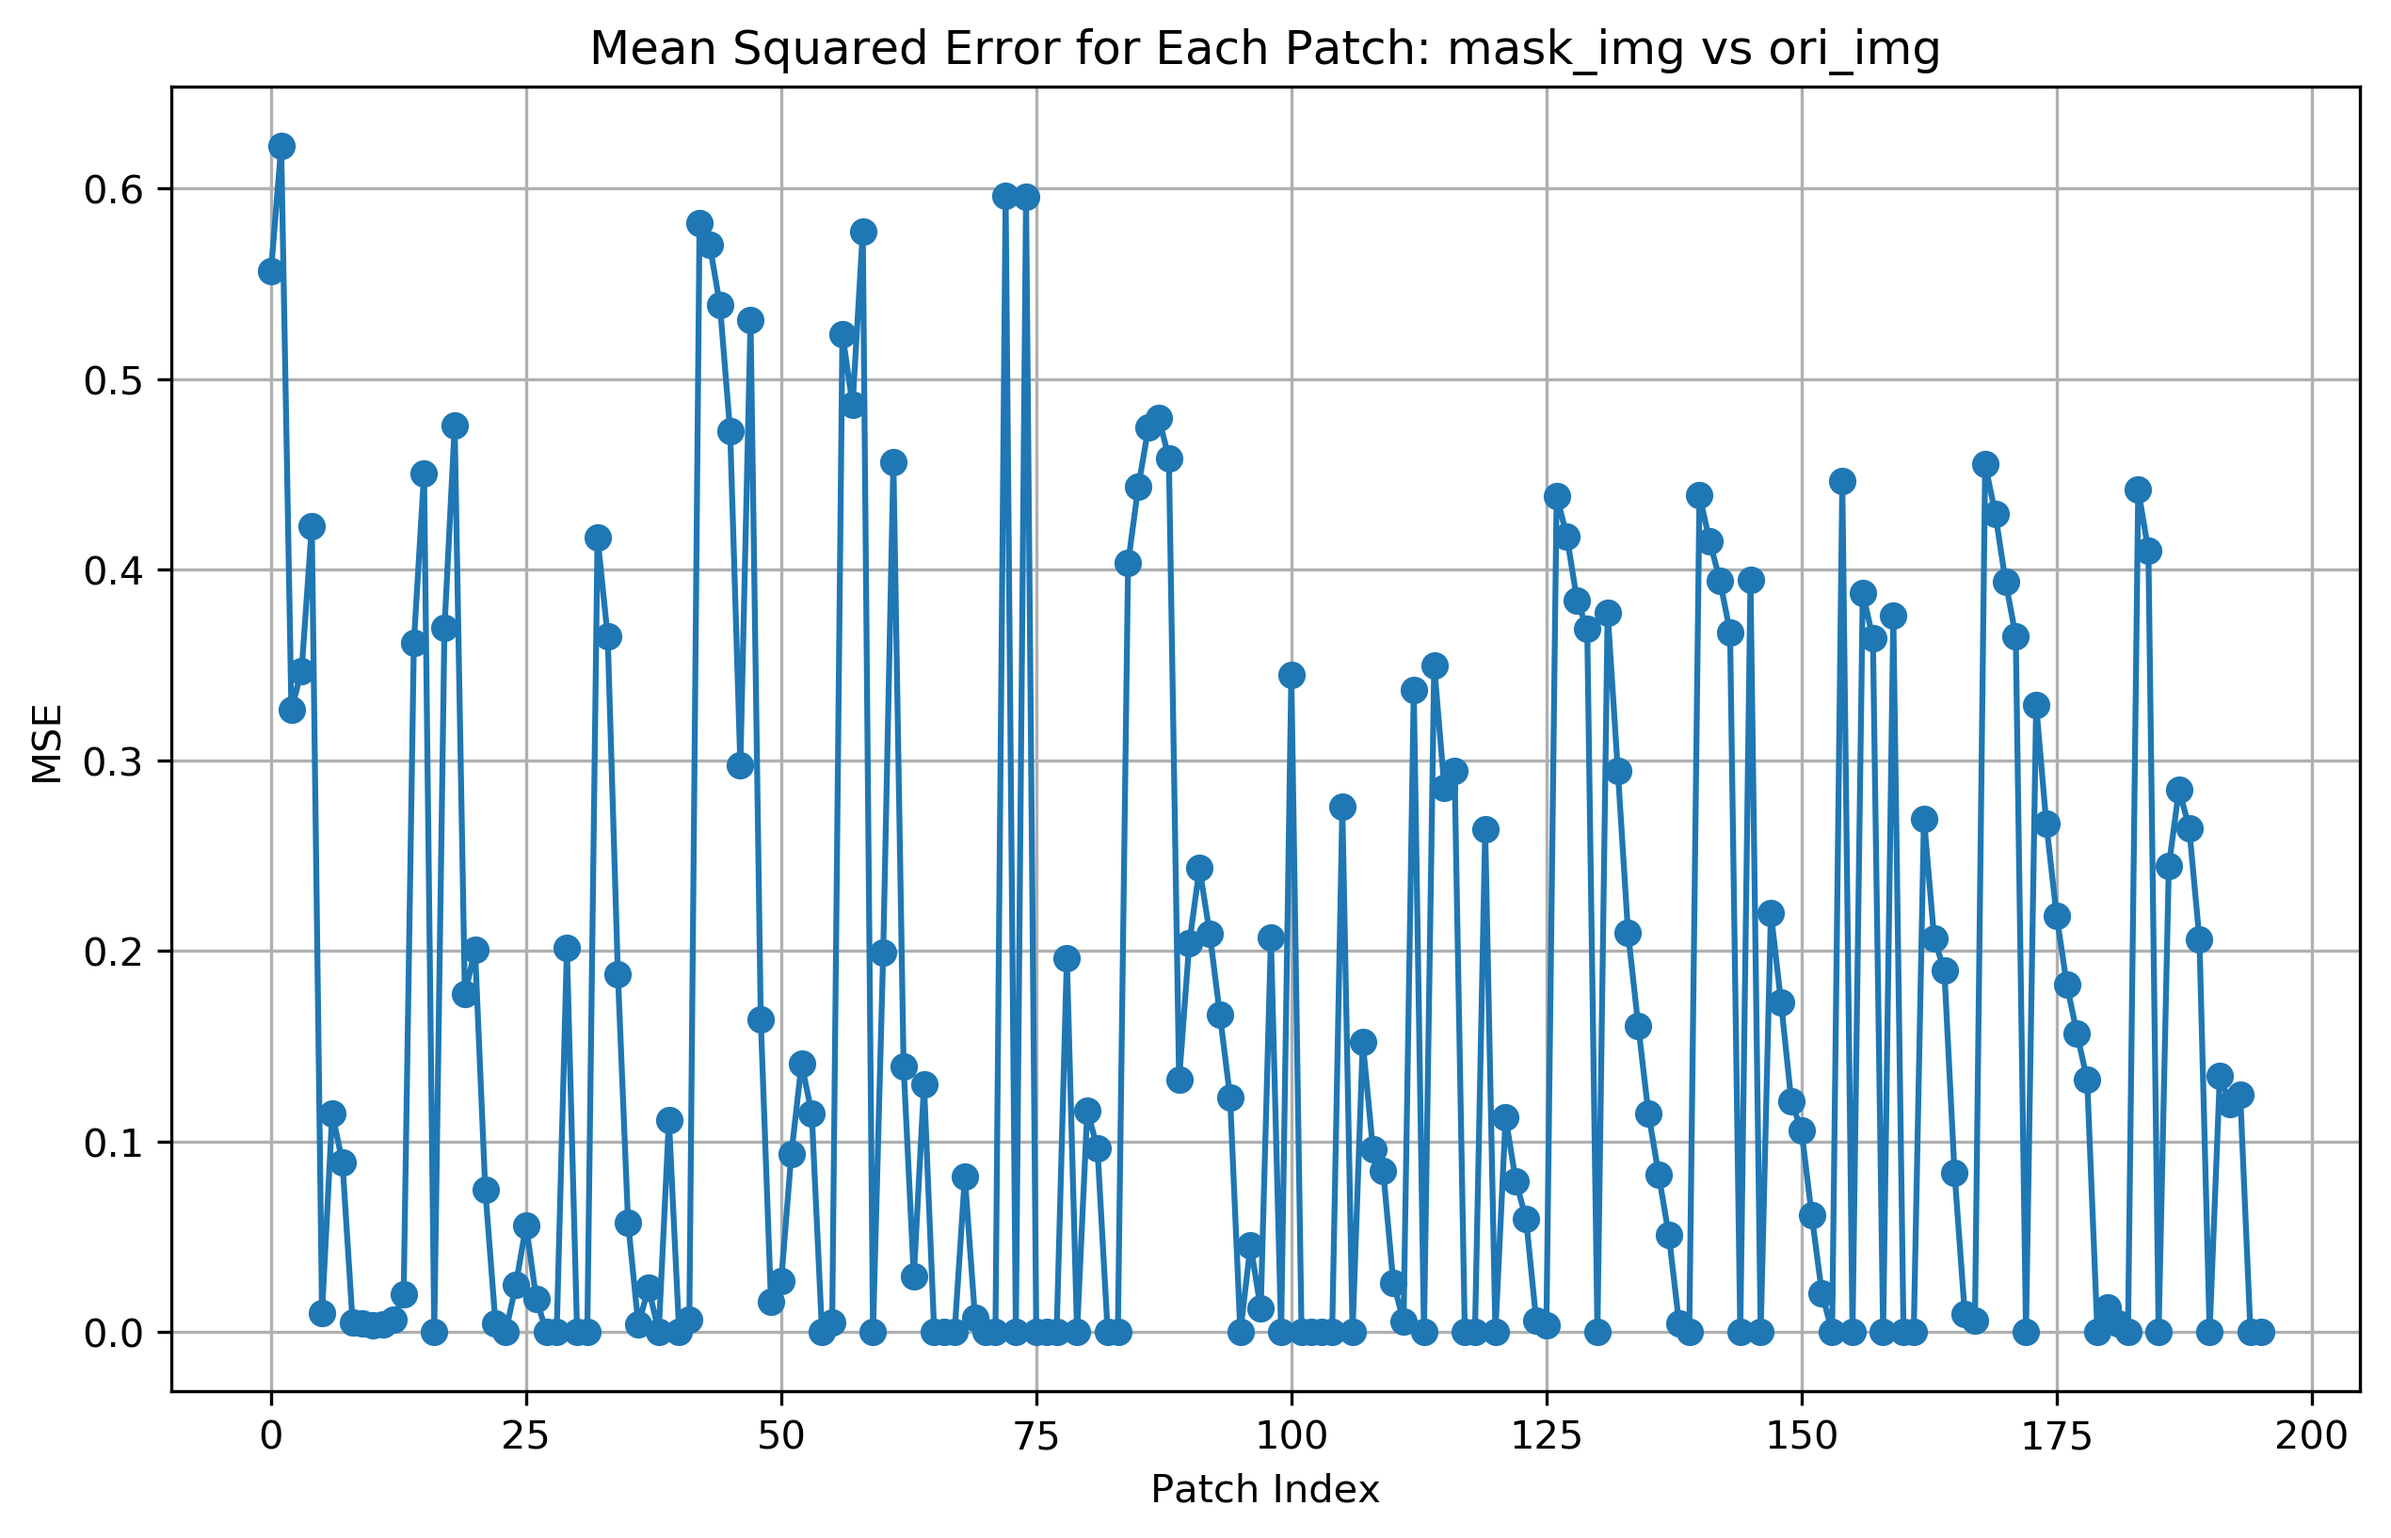
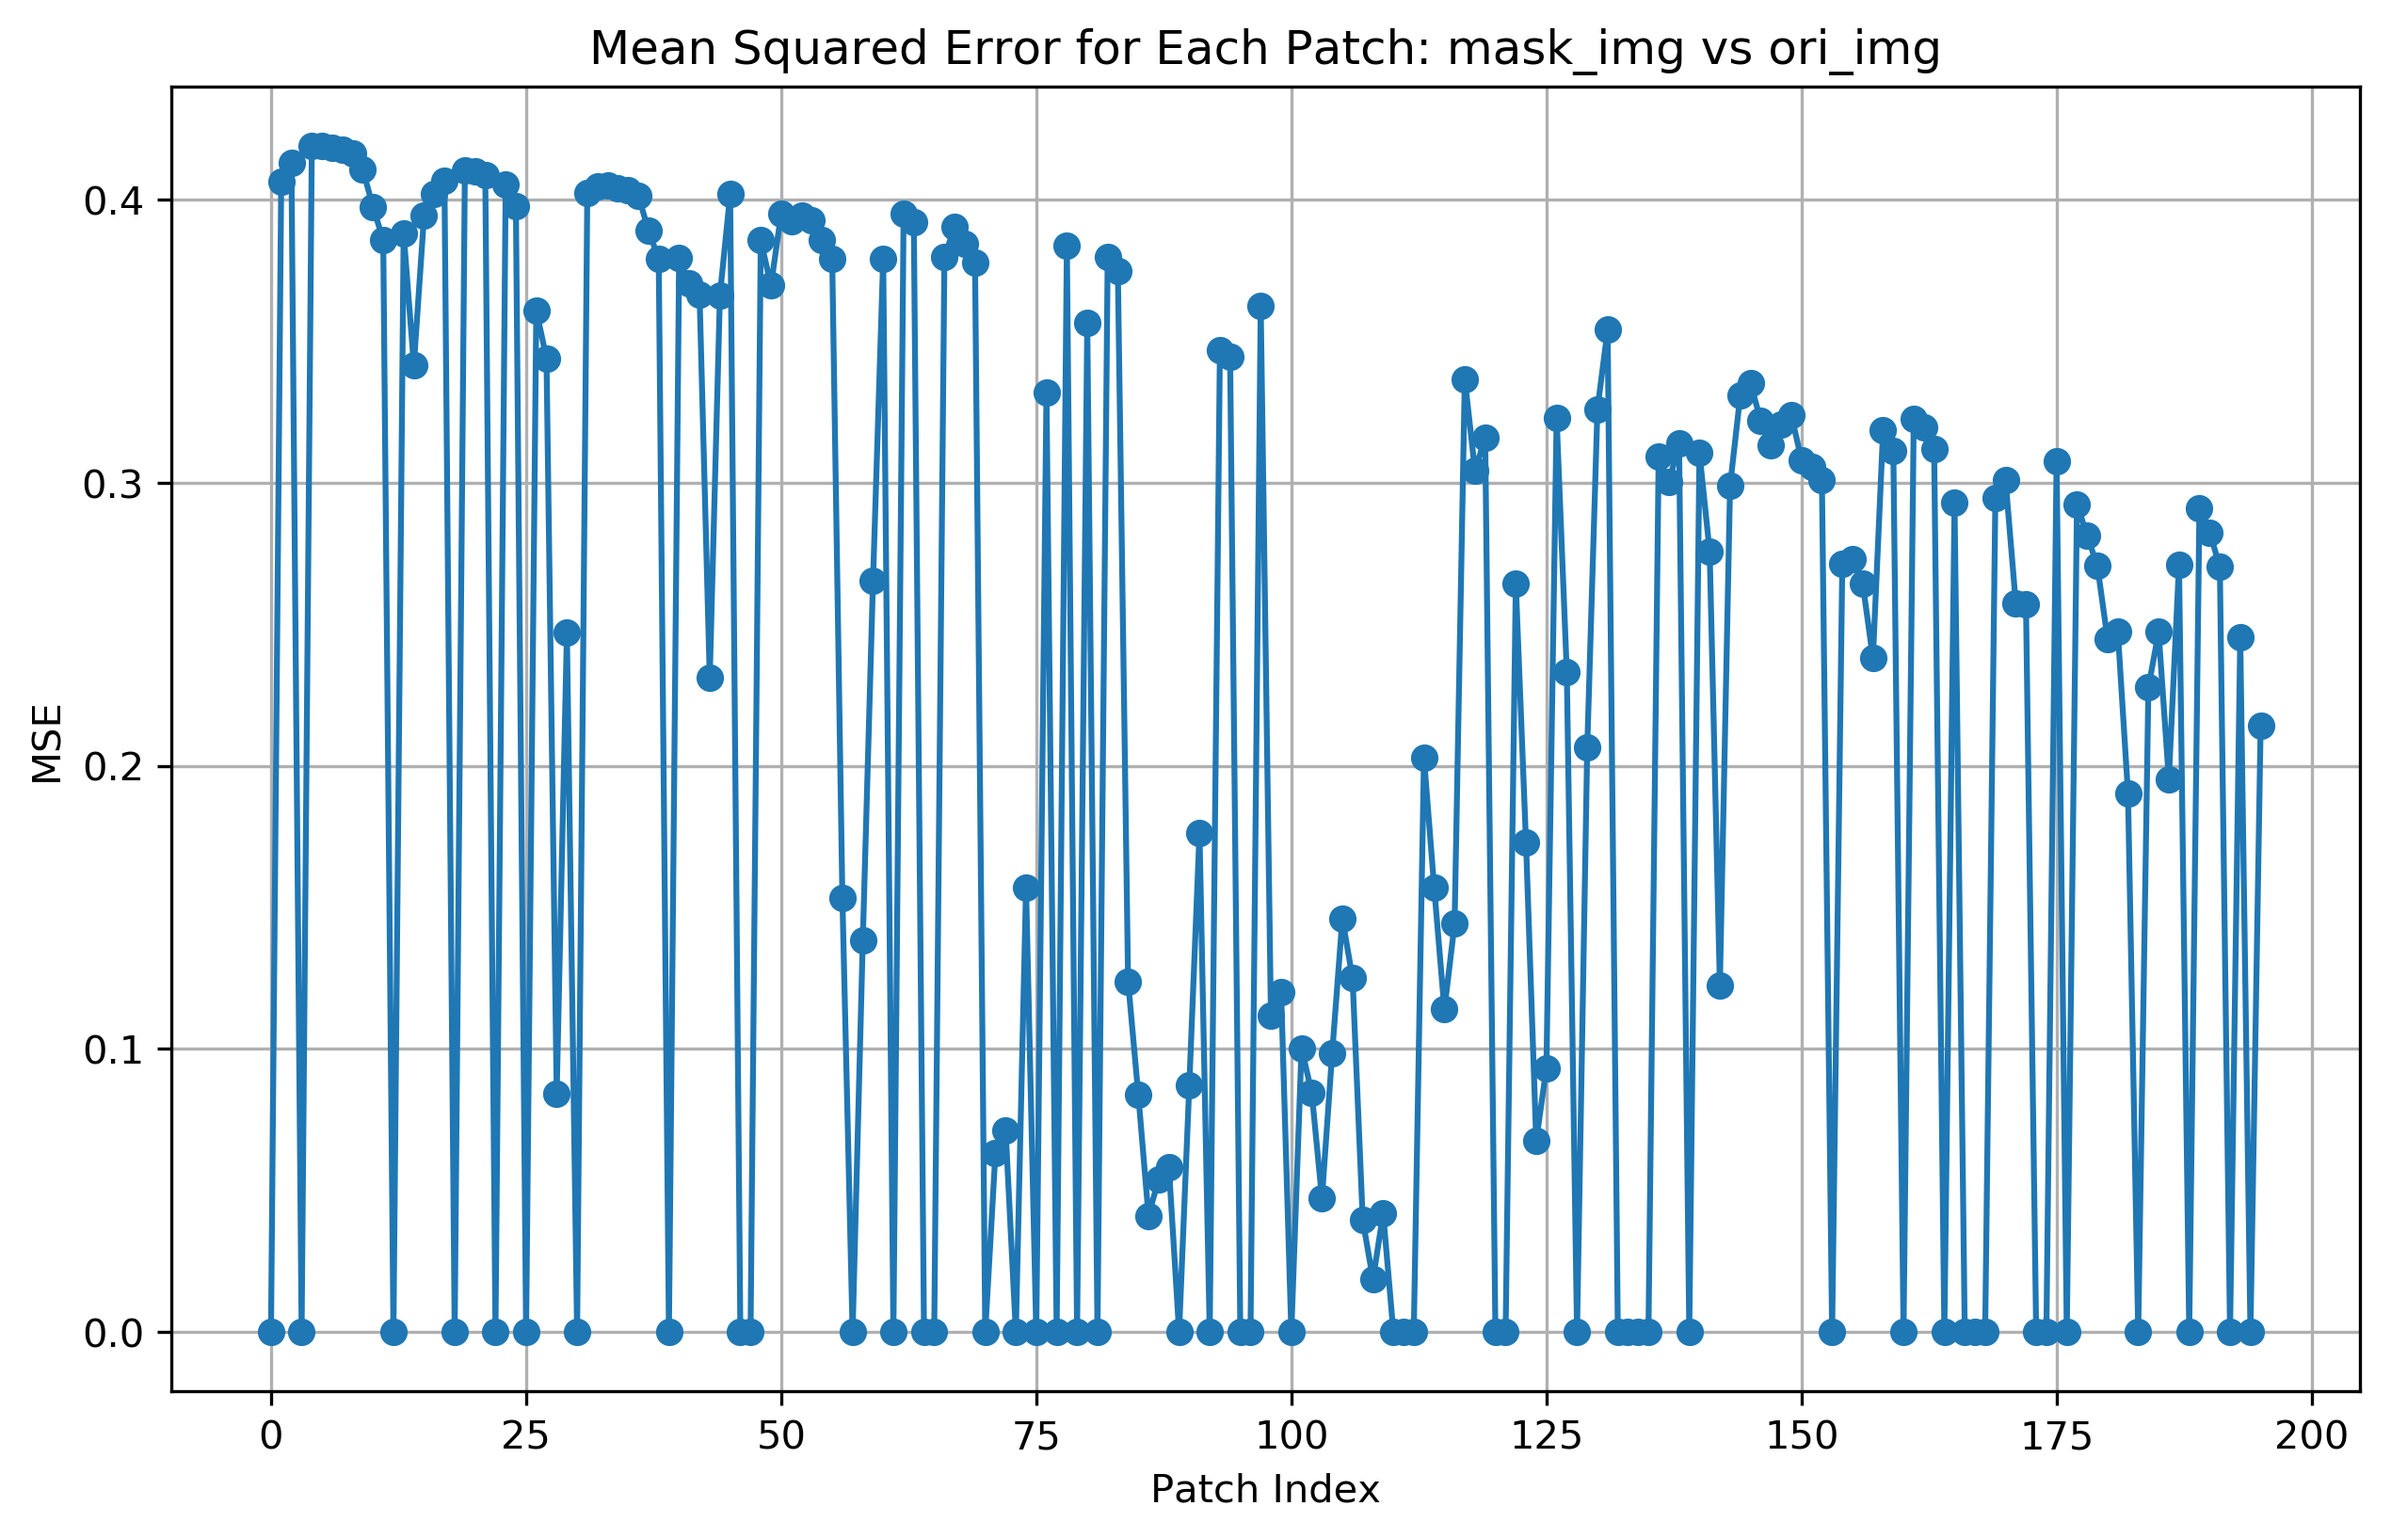
mase_plot for masked patches

diff --git a/run_mae_vis.py b/run_mae_vis.py
@@ -81,6 +81,22 @@ def compute_pixelwise_accuracy(original, reconstructed, threshold=0.05):
     
     return accuracy.item()
 
+def compute_mse_for_masked_patches(ori_img, compare_img, bool_masked_pos, patch_size):
+    mse_losses = []
+    
+    masked_indices = torch.where(bool_masked_pos == True)
+    
+    for idx in zip(masked_indices[0], masked_indices[1]):
+        i = (idx[1] // (ori_img.shape[3] // patch_size[1])) * patch_size[0]
+        j = (idx[1] % (ori_img.shape[3] // patch_size[1])) * patch_size[1]
+
+        patch_ori = ori_img[0, :, i:i+patch_size[0], j:j+patch_size[1]]
+        patch_compare = compare_img[0, :, i:i+patch_size[0], j:j+patch_size[1]]
+
+        mse = ((patch_ori - patch_compare) ** 2).mean().item()
+        mse_losses.append(mse)
+
+    return mse_losses
 
 def main(args):
     print(args)
@@ -189,7 +205,29 @@ def main(args):
         plt.grid(True)
         plt.savefig("out/mse_plot_rec.png", bbox_inches='tight', dpi=300)
 
+        # Calculate MSE for masked patches: mask_img vs ori_img
+        mse_masked_losses = compute_mse_for_masked_patches(ori_img, mask_img, bool_masked_pos, patch_size)
 
+        # Plot the MSE for masked patches
+        plt.figure(figsize=(10, 6))
+        plt.plot(mse_masked_losses, marker='o')
+        plt.title('MSE for Masked Patches: mask_img vs ori_img')
+        plt.xlabel('Masked Patch Index')
+        plt.ylabel('MSE')
+        plt.grid(True)
+        plt.savefig(f"{args.save_path}/mse_plot_masked_patches.png", bbox_inches='tight', dpi=300)
+
+        # Calculate MSE for masked patches: rec_img vs ori_img
+        mse_reconstructed_losses = compute_mse_for_masked_patches(ori_img, rec_img, bool_masked_pos, patch_size)
+
+        # Plot the MSE for masked patches
+        plt.figure(figsize=(10, 6))
+        plt.plot(mse_reconstructed_losses, marker='o')
+        plt.title('MSE for Masked Patches: rec_img vs ori_img')
+        plt.xlabel('Masked Patch Index')
+        plt.ylabel('MSE')
+        plt.grid(True)
+        plt.savefig(f"{args.save_path}/mse_plot_reconstructed_patches.png", bbox_inches='tight', dpi=300)
 
 
 if __name__ == '__main__':

diff --git a/datasets.py b/datasets.py
@@ -26,9 +26,7 @@ class DataAugmentationForMAE(object):
         std = IMAGENET_INCEPTION_STD if not imagenet_default_mean_and_std else IMAGENET_DEFAULT_STD
 
         self.transform = transforms.Compose([
-            transforms.Resize(args.resize),
-            transforms.CenterCrop(args.crop),
-            # transforms.RandomResizedCrop(args.input_size),
+            transforms.RandomResizedCrop(args.input_size),
             transforms.ToTensor(),
             transforms.Normalize(
                 mean=torch.tensor(mean),
